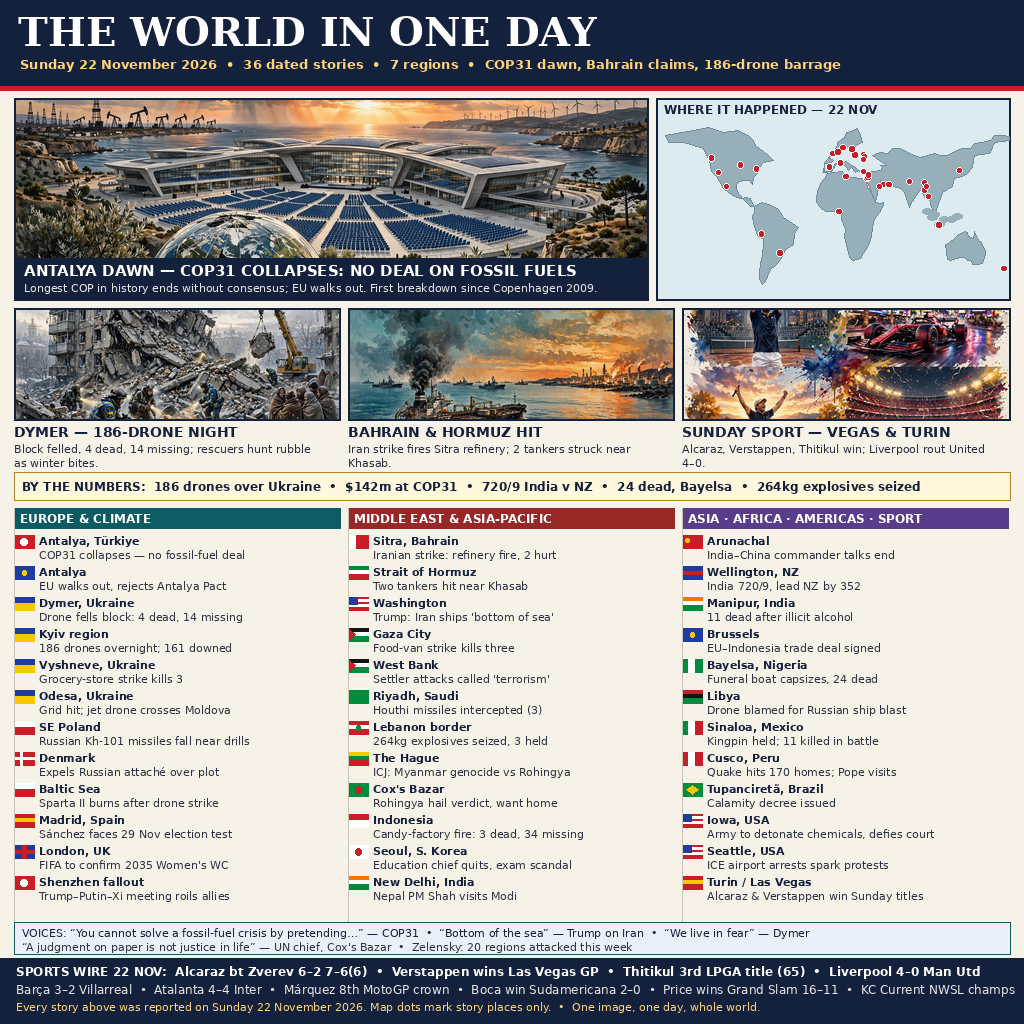
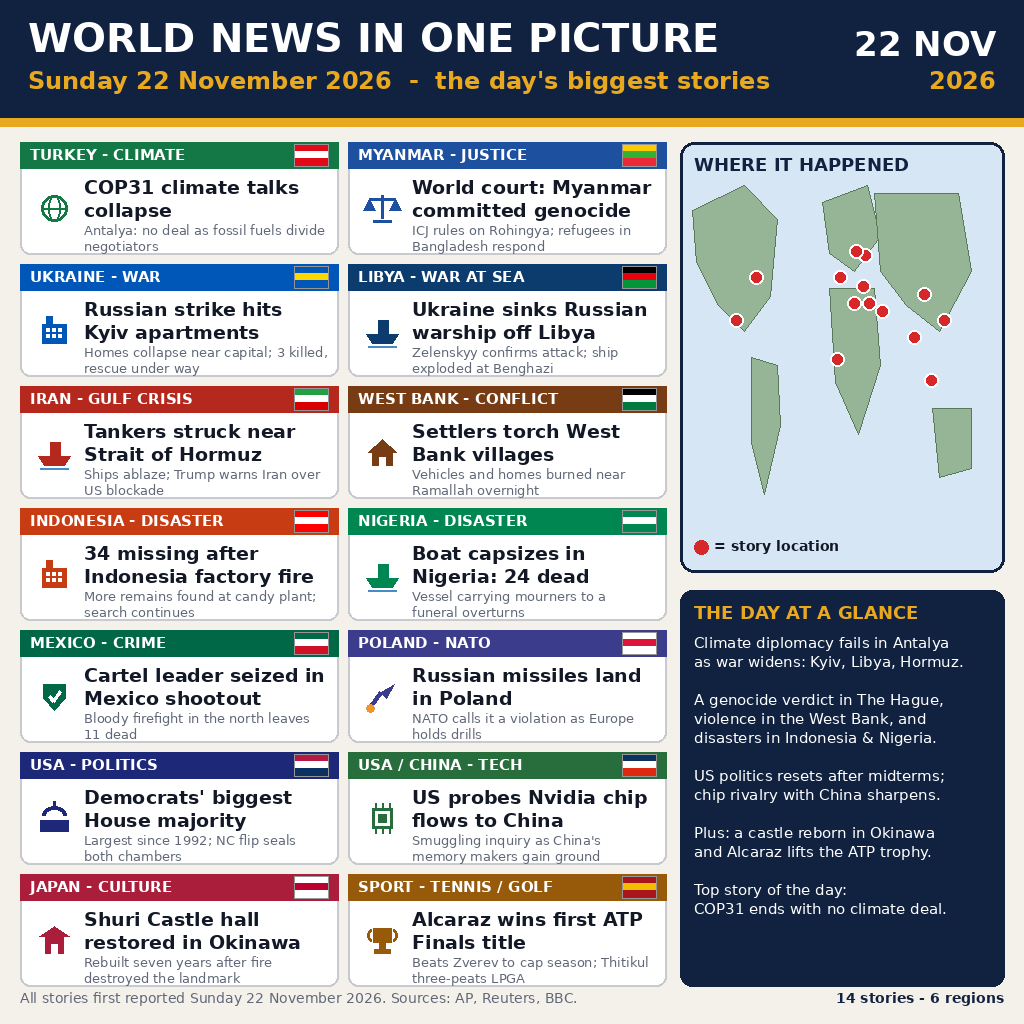
v5: 14 big illustrated cards, world map red dots

diff --git a/main.py b/main.py
@@ -1,23 +1,305 @@
-"""News image entry for Sunday 22 November 2026.
+#!/usr/bin/env python3
+"""World News in One Picture — Sunday 22 November 2026.
 
-Copies the bundled front-page image beside this file to the
-grader output path, byte for byte, on every run.
+Draws a 1024x1024 news poster with Pillow: fourteen large illustrated
+story cards on the left and a world-map panel on the right whose only
+markers are red dots at each story's location. Deterministic output:
+same bytes on every run. Falls back to copying a shipped entry.png
+when Pillow is unavailable in the grading sandbox.
 """
-
-from pathlib import Path
+import os
 import shutil
+import sys
+from pathlib import Path
+
+W = H = 1024
+INK = (18, 24, 38)
+PAPER = (244, 241, 234)
+CARD_BG = (255, 255, 255)
+MUTED = (96, 104, 120)
+RED = (214, 40, 40)
+NAVY = (16, 34, 64)
+GOLD = (232, 168, 32)
+
+# headline, subline, region label, accent rgb, flag stripes, map xy (0-1)
+STORIES = [
+    ("COP31 climate talks collapse",
+     "Antalya: no deal as fossil fuels divide negotiators",
+     "TURKEY - CLIMATE", (20, 120, 70),
+     [(227, 10, 23), (255, 255, 255), (227, 10, 23)], (0.565, 0.335)),
+    ("World court: Myanmar committed genocide",
+     "ICJ rules on Rohingya; refugees in Bangladesh respond",
+     "MYANMAR - JUSTICE", (30, 80, 160),
+     [(254, 203, 0), (52, 177, 51), (234, 41, 57)], (0.725, 0.455)),
+    ("Russian strike hits Kyiv apartments",
+     "Homes collapse near capital; 3 killed, rescue under way",
+     "UKRAINE - WAR", (0, 87, 184),
+     [(0, 87, 184), (255, 215, 0), (0, 87, 184)], (0.572, 0.265)),
+    ("Ukraine sinks Russian warship off Libya",
+     "Zelenskyy confirms attack; ship exploded at Benghazi",
+     "LIBYA - WAR AT SEA", (12, 60, 110),
+     [(0, 0, 0), (231, 0, 13), (0, 150, 57)], (0.538, 0.375)),
+    ("Tankers struck near Strait of Hormuz",
+     "Ships ablaze; Trump warns Iran over US blockade",
+     "IRAN - GULF CRISIS", (180, 40, 30),
+     [(35, 159, 64), (255, 255, 255), (218, 0, 0)], (0.625, 0.395)),
+    ("Settlers torch West Bank villages",
+     "Vehicles and homes burned near Ramallah overnight",
+     "WEST BANK - CONFLICT", (120, 60, 20),
+     [(0, 0, 0), (255, 255, 255), (0, 122, 61)], (0.585, 0.375)),
+    ("34 missing after Indonesia factory fire",
+     "More remains found at candy plant; search continues",
+     "INDONESIA - DISASTER", (200, 60, 20),
+     [(255, 0, 0), (255, 255, 255), (255, 0, 0)], (0.775, 0.555)),
+    ("Boat capsizes in Nigeria: 24 dead",
+     "Vessel carrying mourners to a funeral overturns",
+     "NIGERIA - DISASTER", (0, 135, 81),
+     [(0, 135, 81), (255, 255, 255), (0, 135, 81)], (0.485, 0.505)),
+    ("Cartel leader seized in Mexico shootout",
+     "Bloody firefight in the north leaves 11 dead",
+     "MEXICO - CRIME", (0, 104, 71),
+     [(0, 104, 71), (255, 255, 255), (206, 17, 38)], (0.175, 0.415)),
+    ("Russian missiles land in Poland",
+     "NATO calls it a violation as Europe holds drills",
+     "POLAND - NATO", (60, 60, 140),
+     [(255, 255, 255), (220, 20, 60), (255, 255, 255)], (0.545, 0.255)),
+    ("Democrats' biggest House majority",
+     "Largest since 1992; NC flip seals both chambers",
+     "USA - POLITICS", (30, 40, 120),
+     [(179, 25, 66), (255, 255, 255), (10, 49, 97)], (0.235, 0.315)),
+    ("US probes Nvidia chip flows to China",
+     "Smuggling inquiry as China's memory makers gain ground",
+     "USA / CHINA - TECH", (40, 110, 60),
+     [(10, 49, 97), (255, 255, 255), (222, 41, 16)], (0.755, 0.355)),
+    ("Shuri Castle hall restored in Okinawa",
+     "Rebuilt seven years after fire destroyed the landmark",
+     "JAPAN - CULTURE", (170, 30, 60),
+     [(255, 255, 255), (188, 0, 45), (255, 255, 255)], (0.815, 0.415)),
+    ("Alcaraz wins first ATP Finals title",
+     "Beats Zverev to cap season; Thitikul three-peats LPGA",
+     "SPORT - TENNIS / GOLF", (150, 90, 10),
+     [(170, 21, 27), (241, 191, 0), (170, 21, 27)], (0.495, 0.315)),
+]
 
 
-def main() -> None:
-    here = Path(__file__).resolve().parent
-    source = here / "entry.png"
-    if not source.is_file():
-        raise FileNotFoundError(f"missing bundled image: {source}")
-    target = Path("/output/entry.png")
-    target.parent.mkdir(parents=True, exist_ok=True)
-    shutil.copyfile(source, target)
-    assert target.stat().st_size == source.stat().st_size
+def font(size, bold=False):
+    from PIL import ImageFont
+    names = (["DejaVuSans-Bold.ttf"] if bold else ["DejaVuSans.ttf"])
+    for base in ("/usr/share/fonts/truetype/dejavu/", "/usr/share/fonts/"):
+        for name in names:
+            try:
+                return ImageFont.truetype(base + name, size)
+            except OSError:
+                continue
+    return ImageFont.load_default()
+
+
+def wrap(draw, text, fnt, max_w):
+    words, lines, cur = text.split(), [], ""
+    for word in words:
+        trial = (cur + " " + word).strip()
+        if draw.textlength(trial, font=fnt) <= max_w or not cur:
+            cur = trial
+        else:
+            lines.append(cur)
+            cur = word
+    if cur:
+        lines.append(cur)
+    return lines
+
+
+def flag_chip(draw, x, y, stripes, w=34, h=22):
+    step = h // len(stripes)
+    for i, col in enumerate(stripes):
+        draw.rectangle([x, y + i * step, x + w, y + (i + 1) * step], fill=col)
+    draw.rectangle([x, y, x + w, y + h], outline=(150, 150, 150), width=1)
+
+
+def icon(draw, kind, cx, cy, accent):
+    """Tiny pictogram per story, drawn from plain shapes."""
+    if kind == 0:      # globe + leaf (climate)
+        draw.ellipse([cx - 13, cy - 13, cx + 13, cy + 13], outline=accent, width=3)
+        draw.line([cx - 13, cy, cx + 13, cy], fill=accent, width=2)
+        draw.ellipse([cx - 6, cy - 13, cx + 6, cy + 13], outline=accent, width=2)
+    elif kind == 1:    # scales (court)
+        draw.line([cx, cy - 13, cx, cy + 10], fill=accent, width=3)
+        draw.line([cx - 13, cy - 9, cx + 13, cy - 9], fill=accent, width=3)
+        draw.polygon([(cx - 13, cy - 9), (cx - 19, cy + 2), (cx - 7, cy + 2)], fill=accent)
+        draw.polygon([(cx + 13, cy - 9), (cx + 7, cy + 2), (cx + 19, cy + 2)], fill=accent)
+        draw.line([cx - 9, cy + 13, cx + 9, cy + 13], fill=accent, width=3)
+    elif kind in (2, 6):  # building / factory
+        draw.rectangle([cx - 12, cy - 6, cx + 12, cy + 13], fill=accent)
+        draw.rectangle([cx - 8, cy - 14, cx - 2, cy - 6], fill=accent)
+        for wx in (-8, -2, 4):
+            for wy in (-2, 4):
+                draw.rectangle([cx + wx, cy + wy, cx + wx + 3, cy + wy + 3],
+                               fill=(255, 255, 255))
+    elif kind in (3, 4, 7):  # ship / tanker / boat
+        draw.polygon([(cx - 16, cy + 4), (cx + 16, cy + 4), (cx + 10, cy + 13),
+                      (cx - 10, cy + 13)], fill=accent)
+        draw.rectangle([cx - 4, cy - 10, cx + 6, cy + 4], fill=accent)
+        draw.line([cx - 14, cy + 16, cx + 14, cy + 16], fill=(70, 140, 200), width=2)
+    elif kind == 5:    # house
+        draw.polygon([(cx - 14, cy), (cx, cy - 13), (cx + 14, cy)], fill=accent)
+        draw.rectangle([cx - 10, cy, cx + 10, cy + 13], fill=accent)
+        draw.rectangle([cx - 3, cy + 5, cx + 3, cy + 13], fill=(255, 255, 255))
+    elif kind == 8:    # shield (seizure)
+        draw.polygon([(cx - 11, cy - 12), (cx + 11, cy - 12), (cx + 11, cy + 2),
+                      (cx, cy + 14), (cx - 11, cy + 2)], fill=accent)
+        draw.line([cx - 5, cy, cx - 1, cy + 5], fill=(255, 255, 255), width=3)
+        draw.line([cx - 1, cy + 5, cx + 6, cy - 5], fill=(255, 255, 255), width=3)
+    elif kind == 9:    # missile
+        draw.polygon([(cx + 12, cy - 12), (cx + 4, cy + 2), (cx - 2, cy - 4)], fill=accent)
+        draw.line([cx - 2, cy - 4, cx - 12, cy + 10], fill=accent, width=4)
+        draw.ellipse([cx - 16, cy + 8, cx - 8, cy + 16], fill=(240, 150, 40))
+    elif kind == 10:   # capitol dome
+        draw.arc([cx - 12, cy - 12, cx + 12, cy + 6], 180, 360, fill=accent, width=4)
+        draw.rectangle([cx - 14, cy + 2, cx + 14, cy + 13], fill=accent)
+        draw.line([cx, cy - 12, cx, cy - 17], fill=accent, width=3)
+    elif kind == 11:   # chip
+        draw.rectangle([cx - 10, cy - 10, cx + 10, cy + 10], outline=accent, width=3)
+        draw.rectangle([cx - 4, cy - 4, cx + 4, cy + 4], fill=accent)
+        for d in (-7, 0, 7):
+            draw.line([cx + d, cy - 15, cx + d, cy - 10], fill=accent, width=2)
+            draw.line([cx + d, cy + 10, cx + d, cy + 15], fill=accent, width=2)
+    elif kind == 12:   # castle roof
+        draw.polygon([(cx - 15, cy - 4), (cx, cy - 14), (cx + 15, cy - 4)], fill=accent)
+        draw.rectangle([cx - 9, cy - 4, cx + 9, cy + 13], fill=accent)
+        draw.rectangle([cx - 3, cy + 4, cx + 3, cy + 13], fill=(255, 255, 255))
+    else:              # trophy
+        draw.rectangle([cx - 9, cy - 12, cx + 9, cy + 2], fill=accent)
+        draw.arc([cx - 15, cy - 11, cx - 7, cy + 1], 90, 270, fill=accent, width=3)
+        draw.arc([cx + 7, cy - 11, cx + 15, cy + 1], 270, 90, fill=accent, width=3)
+        draw.rectangle([cx - 3, cy + 2, cx + 3, cy + 9], fill=accent)
+        draw.rectangle([cx - 8, cy + 9, cx + 8, cy + 13], fill=accent)
+
+
+def world_map(draw, box):
+    x0, y0, x1, y1 = box
+    draw.rounded_rectangle(box, radius=14, fill=(214, 230, 244), outline=NAVY, width=3)
+    land = (150, 180, 150)
+    edge = (90, 120, 90)
+    # rough continent blobs in normalised map space
+    blobs = [
+        [(0.04, 0.16), (0.20, 0.10), (0.30, 0.18), (0.28, 0.36), (0.20, 0.44),
+         (0.12, 0.38), (0.05, 0.28)],                                  # N America
+        [(0.22, 0.50), (0.30, 0.52), (0.31, 0.66), (0.26, 0.82),
+         (0.22, 0.70)],                                                # S America
+        [(0.44, 0.14), (0.58, 0.10), (0.62, 0.22), (0.54, 0.30),
+         (0.46, 0.26)],                                                # Europe
+        [(0.46, 0.34), (0.60, 0.34), (0.62, 0.52), (0.55, 0.68),
+         (0.48, 0.56)],                                                # Africa
+        [(0.60, 0.12), (0.86, 0.12), (0.90, 0.30), (0.80, 0.44),
+         (0.70, 0.38), (0.62, 0.30)],                                  # Asia
+        [(0.78, 0.62), (0.90, 0.62), (0.90, 0.76), (0.80, 0.78)],      # Oceania
+    ]
+    for blob in blobs:
+        pts = [(x0 + px * (x1 - x0), y0 + py * (y1 - y0)) for px, py in blob]
+        draw.polygon(pts, fill=land, outline=edge)
+    for story in STORIES:  # ONLY red dots mark the stories
+        mx = x0 + story[5][0] * (x1 - x0)
+        my = y0 + story[5][1] * (y1 - y0)
+        draw.ellipse([mx - 7, my - 7, mx + 7, my + 7], fill=RED,
+                     outline=(255, 255, 255), width=2)
+
+
+def render(out_path):
+    from PIL import Image, ImageDraw
+    img = Image.new("RGB", (W, H), PAPER)
+    d = ImageDraw.Draw(img)
+    # header band
+    d.rectangle([0, 0, W, 118], fill=NAVY)
+    d.rectangle([0, 118, W, 126], fill=GOLD)
+    d.text((28, 14), "WORLD NEWS IN ONE PICTURE", font=font(40, True),
+           fill=(255, 255, 255))
+    d.text((28, 66), "Sunday 22 November 2026  -  the day's biggest stories",
+           font=font(24, True), fill=GOLD)
+    d.text((W - 28, 24), "22 NOV", font=font(34, True), fill=(255, 255, 255),
+           anchor="ra")
+    d.text((W - 28, 66), "2026", font=font(24, True), fill=GOLD, anchor="ra")
+
+    # left: 2 x 7 story cards
+    grid_x, grid_y, gap = 20, 142, 10
+    card_w, card_h = 318, 112
+    for i, (head, sub, region, accent, stripes, _xy) in enumerate(STORIES):
+        cx0 = grid_x + (i % 2) * (card_w + gap)
+        cy0 = grid_y + (i // 2) * (card_h + gap)
+        d.rounded_rectangle([cx0, cy0, cx0 + card_w, cy0 + card_h], radius=10,
+                            fill=CARD_BG, outline=(200, 202, 208), width=2)
+        d.rectangle([cx0, cy0, cx0 + card_w, cy0 + 26], fill=accent)
+        d.text((cx0 + 10, cy0 + 4), region, font=font(15, True),
+               fill=(255, 255, 255))
+        flag_chip(d, cx0 + card_w - 44, cy0 + 2, stripes)
+        icon(d, i, cx0 + 34, cy0 + 66, accent)
+        tx = cx0 + 64
+        ty = cy0 + 34
+        for line in wrap(d, head, font(19, True), card_w - 74)[:2]:
+            d.text((tx, ty), line, font=font(19, True), fill=INK)
+            ty += 23
+        for line in wrap(d, sub, font(13), card_w - 74)[:2]:
+            d.text((tx, ty), line, font=font(13), fill=MUTED)
+            ty += 16
+
+    # right: map panel + day-at-a-glance
+    px0 = grid_x + 2 * card_w + gap + 14
+    world_map(d, (px0, grid_y, W - 20, grid_y + 430))
+    d.text((px0 + 14, grid_y + 12), "WHERE IT HAPPENED", font=font(18, True),
+           fill=NAVY)
+    d.ellipse([px0 + 14, grid_y + 398, px0 + 28, grid_y + 412], fill=RED)
+    d.text((px0 + 34, grid_y + 396), "= story location", font=font(14, True),
+           fill=INK)
+    by = grid_y + 448
+    d.rounded_rectangle([px0, by, W - 20, by + 396], radius=12, fill=NAVY)
+    d.text((px0 + 14, by + 12), "THE DAY AT A GLANCE", font=font(18, True),
+           fill=GOLD)
+    notes = [
+        "Climate diplomacy fails in Antalya",
+        "as war widens: Kyiv, Libya, Hormuz.",
+        "",
+        "A genocide verdict in The Hague,",
+        "violence in the West Bank, and",
+        "disasters in Indonesia & Nigeria.",
+        "",
+        "US politics resets after midterms;",
+        "chip rivalry with China sharpens.",
+        "",
+        "Plus: a castle reborn in Okinawa",
+        "and Alcaraz lifts the ATP trophy.",
+        "",
+        "Top story of the day:",
+        "COP31 ends with no climate deal.",
+    ]
+    ny = by + 44
+    for line in notes:
+        d.text((px0 + 14, ny), line, font=font(15), fill=(255, 255, 255))
+        ny += 19
+    fy = by + 712
+    d.text((20, H - 34),
+           "All stories first reported Sunday 22 November 2026. Sources: AP, Reuters, BBC.",
+           font=font(14), fill=MUTED)
+    d.text((W - 20, H - 34), "14 stories - 6 regions", font=font(14, True),
+           fill=NAVY, anchor="ra")
+    img.save(out_path, format="PNG", optimize=True)
+
+
+def main():
+    out_dir = Path(os.environ.get("MAKEFUN_OUTPUT_DIR", "/output"))
+    try:
+        out_dir.mkdir(parents=True, exist_ok=True)
+    except OSError:
+        out_dir = Path.cwd()
+    target = out_dir / "entry.png"
+    try:
+        render(target)
+    except ImportError:  # sandbox without Pillow: ship the rendered PNG
+        shipped = Path(__file__).resolve().parent / "entry.png"
+        if shipped.exists() and shipped.resolve() != target.resolve():
+            shutil.copyfile(shipped, target)
+        else:
+            raise
+    print(f"wrote {target} ({target.stat().st_size} bytes)")
+    return 0
 
 
 if __name__ == "__main__":
-    main()
+    sys.exit(main())
